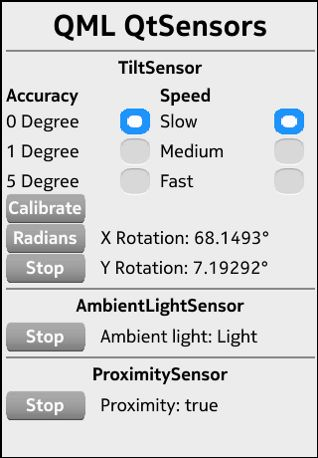
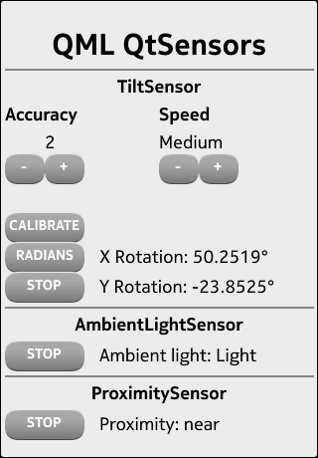
Replace Radiobutton with -+ buttons
Sanity-Review: Qt Sanity Bot <qt_sanity_bot@ovi.com>

diff --git a/qtsensors/examples/sensors/qmlqtsensors/main.qml b/qtsensors/examples/sensors/qmlqtsensors/main.qml
@@ -38,13 +38,6 @@
 **
 ****************************************************************************/
 
-//Import the declarative plugins
-import QtQuick 2.0
-
-//! [0]
-import QtSensors 5.0
-//! [0]
-
 /* Layout
                                                                                   mainWnd
                                                                                  /
@@ -59,9 +52,10 @@ import QtSensors 5.0
 |         / accuracyRect                               / speedRect
 |-------------------------------------------||----------------------------------|
 || Accuracy <----- textAccuracy             || Speed <-----textSpeed            |
-|| @ 0 Degree   <- selButton0DegreeAccuracy || @ Slow   <- selButtonSlowSpeed   |
-|| O 1 Degree   <- selButton1DegreeAccuracy || O Medium <- selButtonMediumSpeed |
-|| O 5 Degree   <- selButton5DegreeAccuracy || O Fast   <- selButtonFastSpeed   |
+||  value   <- textAccuracyValue            ||  value    <- textSpeedValue      |
+|| ----------------- ------------------     || --------------- ---------------- |
+|| | accuracyLower | | accuracyHigher |     || | speedLower  | | speedHigher  | |
+|| ----------------- ------------------     || --------------- ---------------- |
 |------------------------------------------ ||----------------------------------|
 | -----------
 | |Calibrate|    <------------------ calibrate
@@ -87,8 +81,14 @@ import QtSensors 5.0
 | |Start  |    <-------------------- proxiStart                  Proximity: -  <--------------- proxitext
 | ---------
 ------------------------------------------------------------------------------
-
 */
+
+//Import the declarative plugins
+import QtQuick 2.0
+
+//! [0]
+import QtSensors 5.0
+//! [0]
 
 Rectangle {
     id: mainWnd
@@ -96,7 +96,10 @@ Rectangle {
     y: 0
     width: 320
     height: 480
-    color: "#ececec"
+    color: "transparent"
+
+    property int accuracy: 1
+    property string speed: "Slow"
 
     Text {
         id: labelTitle
@@ -144,6 +147,7 @@ Rectangle {
         unit: TiltSensor.Degrees
         enabled: false
         accuracy: 1.0
+        speed: TiltSensor.Slow
     }
 //! [1]
 
@@ -166,51 +170,45 @@ Rectangle {
             font.bold: true
         }
 
-        RadioButton{
-            id: selButton0DegreeAccuracy
+        Text{
+            id: textAccuracyValue
             anchors.top: textAccuracy.bottom
+            anchors.topMargin: 5
+            anchors.left: accuracyHigher.left
+            anchors.right: accuracyHigher.right
+            text: mainWnd.accuracy
+            verticalAlignment: Text.AlignVCenter
+        }
+
+        Button{
+            id: accuracyLower
+            anchors.top: textAccuracyValue.bottom
             anchors.left: accuracyRect.left
-            anchors.right: accuracyRect.right
-            anchors.rightMargin: 10
-            checked: true
-            text: "0 Degree"
+            height: 30
+            width: 40
+            text: "-"
 
             onClicked:{
-                selButton1DegreeAccuracy.setCheck(false);
-                selButton5DegreeAccuracy.setCheck(false);
-                tilt.accuracy = 0.0;
+                if (mainWnd.accuracy > 1){
+                    mainWnd.accuracy--;
+                    tilt.accuracy = mainWnd.accuracy;
+                }
             }
         }
 
-        RadioButton{
-            id: selButton1DegreeAccuracy
-            anchors.top: selButton0DegreeAccuracy.bottom
-            anchors.left: accuracyRect.left
-            anchors.right: accuracyRect.right
-            anchors.rightMargin: 10
-            checked: false
-            text: "1 Degree"
+        Button{
+            id: accuracyHigher
+            anchors.top: textAccuracyValue.bottom
+            anchors.left: accuracyLower.right
+            height: 30
+            width: 40
+            text: "+"
 
             onClicked:{
-                selButton0DegreeAccuracy.setCheck(false);
-                selButton5DegreeAccuracy.setCheck(false);
-                tilt.accuracy = (tilt.unit == TiltSensor.Degrees ? 1.0 : (3.14 / 180.0));
-            }
-        }
-
-        RadioButton{
-            id: selButton5DegreeAccuracy
-            anchors.top: selButton1DegreeAccuracy.bottom
-            anchors.left: accuracyRect.left
-            anchors.right: accuracyRect.right
-            anchors.rightMargin: 10
-            checked: false
-            text: "5 Degree"
-
-            onClicked:{
-                selButton0DegreeAccuracy.setCheck(false);
-                selButton1DegreeAccuracy.setCheck(false);
-                tilt.accuracy = (tilt.unit == TiltSensor.Degrees ? 5.0 : (5.0 * 3.14 / 180.0));
+                if (mainWnd.accuracy < 10){
+                    mainWnd.accuracy++;
+                    tilt.accuracy = mainWnd.accuracy;
+                }
             }
         }
     }
@@ -234,57 +232,56 @@ Rectangle {
             font.bold: true
         }
 
-        RadioButton{
-            id: selButtonSlowSpeed
+        Text{
+            id: textSpeedValue
             anchors.top: textSpeed.bottom
+            anchors.topMargin: 5
+            anchors.left: speedLower.left
+            anchors.right: speedHigher.right
+            text: mainWnd.speed
+            verticalAlignment: Text.AlignVCenter
+        }
+
+        Button{
+            id: speedLower
+            anchors.top: textSpeedValue.bottom
             anchors.left: speedRect.left
-            anchors.right: speedRect.right
-            anchors.rightMargin: 10
-            checked: true
-            text: "Slow"
+            height: 30
+            width: 40
+            text: "-"
 
             onClicked:{
-                selButtonMediumSpeed.setCheck(false);
-                selButtonFastSpeed.setCheck(false);
-                tilt.speed = TiltSensor.Slow;
+                if (tilt.speed === TiltSensor.Fast) {
+                    mainWnd.speed = "Medium";
+                    tilt.speed = TiltSensor.Medium;
+                }
+                else if (tilt.speed === TiltSensor.Medium) {
+                    mainWnd.speed = "Slow";
+                    tilt.speed = TiltSensor.Slow;
+                }
             }
         }
 
-
-        RadioButton{
-            id: selButtonMediumSpeed
-            anchors.top: selButtonSlowSpeed.bottom
-            anchors.left: speedRect.left
-            anchors.right: speedRect.right
-            anchors.rightMargin: 10
-            checked: false
-            text: "Medium"
+        Button{
+            id: speedHigher
+            anchors.top: textSpeedValue.bottom
+            anchors.left: speedLower.right
+            height: 30
+            width: 40
+            text: "+"
 
             onClicked:{
-                selButtonSlowSpeed.setCheck(false);
-                selButtonFastSpeed.setCheck(false);
-                tilt.speed = TiltSensor.Medium;
-            }
-        }
-
-
-        RadioButton{
-            id: selButtonFastSpeed
-            anchors.top: selButtonMediumSpeed.bottom
-            anchors.left: speedRect.left
-            anchors.right: speedRect.right
-            anchors.rightMargin: 10
-            checked: false
-            text: "Fast"
-
-            onClicked:{
-                selButtonSlowSpeed.setCheck(false);
-                selButtonMediumSpeed.setCheck(false);
-                tilt.speed = TiltSensor.Fast;
+                if (tilt.speed === TiltSensor.Slow) {
+                    mainWnd.speed = "Medium";
+                    tilt.speed = TiltSensor.Medium;
+                }
+                else if (tilt.speed === TiltSensor.Medium) {
+                    mainWnd.speed = "Fast";
+                    tilt.speed = TiltSensor.Fast;
+                }
             }
         }
     }
-
 
     Button{
         id: calibrate
@@ -489,3 +486,4 @@ Rectangle {
 //! [6]
     }
 }
+
